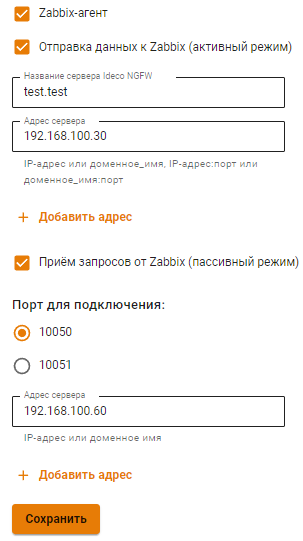
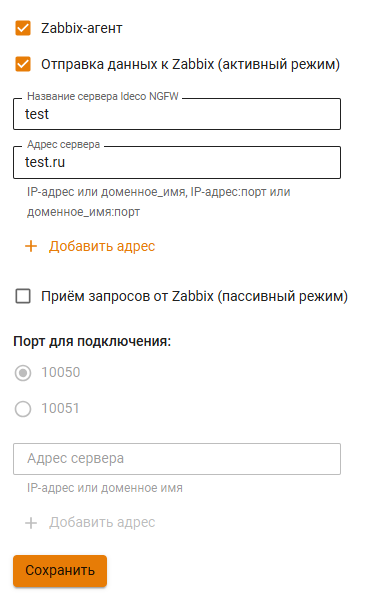
ICS-46200 УТМ. VTW. SNMP и Zabbix-агент

diff --git a/settings/monitor/zabbix.md b/settings/monitor/zabbix.md
@@ -1,32 +1,52 @@
+---
+description: >-
+  Статья содержит описание настройки мониторинга Zabbix в Ideco NGFW.
+---
+
 # Интеграция с Zabbix
 
-Zabbix - это решение распределенного мониторинга корпоративного класса с открытыми исходными кодами.
+Zabbix - программное обеспечение мониторинга многочисленных параметров сети, а также состояния и работоспособности серверов.
 
-Ознакомиться с Zabbix можно на [официальной странице Zabbix](https://www.zabbix.com/ru/).
+## Настройка Zabbix-агента
 
-Опробуйте Zabbix в виде [готового решения](https://www.zabbix.com/documentation/6.2/en/manual/appliance) или установить его, воспользовавшись [документацией Zabbix](https://www.zabbix.com/documentation/current/en/manual).
+Для работы системы мониторинга Zabbix в Ideco NGFW активируйте опцию **Zabbix-агент** после настройки интеграции с Zabbix.
 
-## Интеграция с Zabbix
+Интеграция с системой мониторинга Zabbix возможна в двух режимах: **Активный** и **Пассивный**.
 
-{% hint style="warning" %}
-Для работы системы мониторинга Zabbix активируйте опцию **Zabbix-агент** после настройки интеграции с Zabbix.
-{% endhint %}
+{% tabs %}
 
-Интеграция с системой мониторинга Zabbix возможна в двух режимах:
+{% tab title="Активный" %}
 
-1\. **Активный режим** - соединение с Zabbix-сервером происходит со стороны Ideco NGFW. Для настройки этого режима заполните следующие поля:
-   * **Имя сервера Ideco NGFW** - имя, которое будет отображаться на сервере мониторинга;
-   * **Адрес сервера** - IP-адрес, доменное имя, либо `IP-адрес:порт`, `доменное имя:порт`, если используется не стандартный для Zabbix входящий порт. Для добавления еще одного адреса нажмите на кнопку **Добавить адрес**.
-  
-2\. **Пассивный режим** - подключение происходит со стороны Zabbix-сервера. Для настройки этого режима заполните следующие поля:
+Соединение с Zabbix-сервером происходит со стороны Ideco NGFW. Для настройки заполните поля:
 
 ![](/.gitbook/assets/zabbix.png)
 
-   * **Порт для подключения** - выберите 10050 или 10051 порт;
-   * **Адрес сервера** - IP-адрес или доменное имя Zabbix-серверов. Для добавления еще одного адреса нажмите на кнопку **Добавить адрес**.
+* **Имя сервера Ideco NGFW** - имя, которое будет отображаться на сервере мониторинга;
+* **Адрес сервера** - IP-адрес, доменное имя, либо `IP-адрес:порт`, `доменное имя:порт`, если используется нестандартный для Zabbix входящий порт. Для добавления еще одного адреса нажмите **Добавить адрес**.
+  
+{% endtab %}
+
+{% tab title="Пассивный" %}
+
+Подключение происходит со стороны Zabbix-сервера. Для настройки заполните поля:
+
+![](/.gitbook/assets/zabbix1.png)
+
+* **Порт для подключения** - выберите 10050 или 10051 порт;
+* **Адрес сервера** - IP-адрес или доменное имя Zabbix-сервера. Для добавления еще одного адреса нажмите **Добавить адрес**.
+
+{% endtab %}
+
+{% endtabs %}
 
 В обоих случаях интеграции Zabbix-сервер должен находиться внутри локальной сети Ideco NGFW. Подключение мониторинга возможно только к локальным интерфейсам.
 
 {% hint style="info" %}
 В качестве шаблонов данных можно использовать стандартные шаблоны для Linux-серверов.
 {% endhint %}
+
+## Дополнительная информация
+
+* [Официальная страница Zabbix](https://www.zabbix.com/ru/)
+* [Zabbix как готовое решение](https://www.zabbix.com/documentation/6.2/en/manual/appliance)
+* [Установка Zabbix](https://www.zabbix.com/documentation/current/en/manual/installation/getting_zabbix)

diff --git a/settings/monitor/snmp.md b/settings/monitor/snmp.md
@@ -1,32 +1,48 @@
+---
+description: >-
+  В статье описана настройка доступа к Ideco NGFW по протоколу SNMP версий 1/2c и 3.
+---
+
 # SNMP
 
-{% hint style="info" %}
-Для перевода раздела в рабочий режим переведите опцию в положение **Включен**.
-{% endhint %}
+SNMP - это протокол для управления и мониторинга сетевых устройств, таких как маршрутизаторы, коммутаторы и фаерволы.
+Модуль **SNMP** обеспечивает мониторинг работы Ideco NGFW по протоколу SNMP версий 1/2c и 3.
 
-![](/.gitbook/assets/snmp.gif)
+## Настройка подключения
 
-<!-- Опция переключается в положение Включен -->
-
-Этот модуль позволяет осуществлять мониторинг работы Ideco NGFW по протоколу SNMP версий 1/2c и 3. Для настройки подключения по протоколу SNMP необходимо:
-
-* Для версии 1/2c указать:
-    * Имя пользователя;
-    * Пароль (минимальное количество символов - 8);
-    * **Доверенные IP-адреса и сети**.
-
-* Для версии 3 указать:
-    * Имя пользователя;
-    * Пароль (минимальное количество символов - 8);
-    * Ключ шифрования;
-    * **Доверенные IP-адреса и сети**.
-
-{% hint style="info" %}
-**Рекомендуем**: На сервере, с которым будет осуществляться соединение по SNMPv3, указать алгоритмы: Auth Algorithm MD5 и Crypto Algorithm AES.
-
-Поле SNMP community для SNMPv3 необязательно для заполнения.
-{% endhint %}
-
-После заполнения поля **Доверенные IP-адреса и сети** устройства, находящиеся в указанных доверенных сетях, получат доступ к данным с Ideco NGFW. Поля **Расположение**, **Контактная информация** и **Имя узла** носят информационный характер и являются необязательными:
+Для подключения по протоколу SNMP в разделе **Мониторинг -> SNMP** включите опцию и заполните поля:
 
 ![](/.gitbook/assets/snmp.png)
+
+<details>
+
+<summary>Версия 1/2c</summary>
+
+* **Имя пользователя**;
+* **Пароль** (минимальное количество символов - 8);
+* **Доверенные IP-адреса и сети**.
+
+Поля **Расположение**, **Контактная информация** и **Имя узла** носят информационный характер и являются необязательными.
+
+</details>
+
+<details>
+
+<summary>Версия 3</summary>
+
+* **Имя пользователя**;
+* **Пароль** (минимальное количество символов - 8);
+* **Ключ шифрования**;
+* **Доверенные IP-адреса и сети**.
+
+Поля **Расположение**, **Контактная информация** и **Имя узла** носят информационный характер и необязательны.
+
+{% hint style="info" %}
+**Рекомендуем**: На сервере, с которым будет установлено соединение по SNMPv3, укажите алгоритмы **Auth Algorithm MD5** и **Crypto Algorithm AES**.
+
+Поле **SNMP community** для SNMPv3 необязательно для заполнения.
+{% endhint %}
+
+</details>
+
+Устройства в указанных доверенных сетях получат доступ к данным Ideco NGFW после заполнения поля **Доверенные IP-адреса и сети**.
